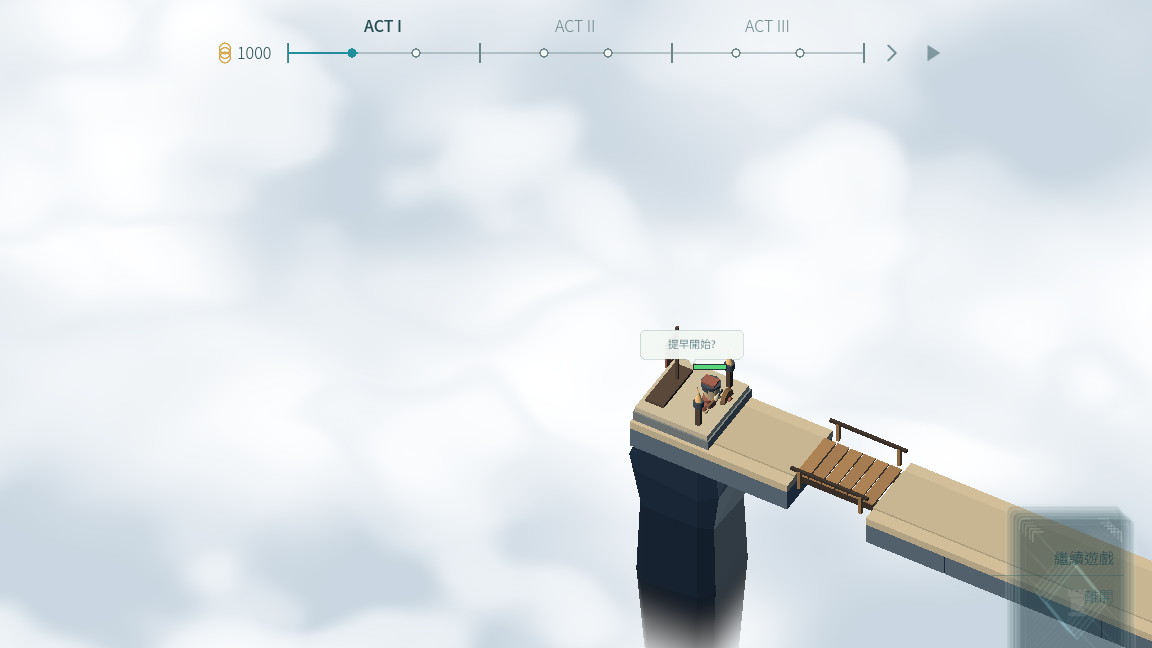
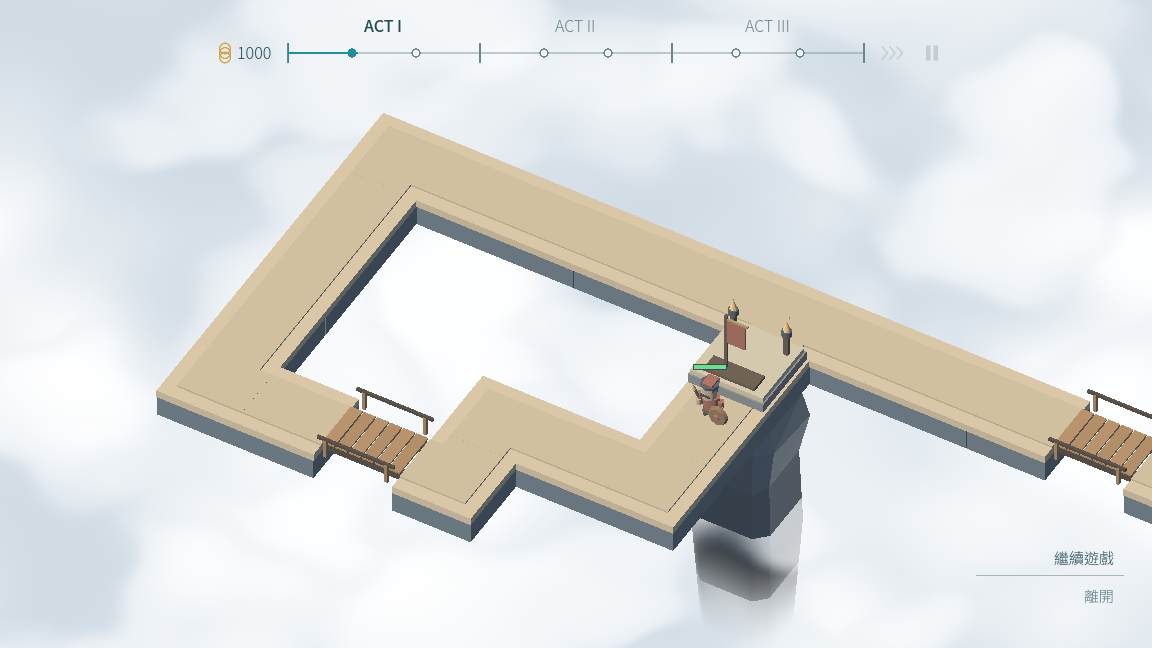
Refine pause controls and card transitions

diff --git a/scenes/UI_README.md b/scenes/UI_README.md
@@ -14,7 +14,7 @@
 | 波次圓點與 ACT 分隔線 | `levels/components/wave_timeline_marker.tscn` | `Dot/Fill`、`Dot/Outline`、`Divider` |
 | ACT 文字 | `levels/components/wave_timeline_act.tscn` | Label 的高度、對齊；目前 ACT 的字型與整體字級／顏色由時間線根節點指定 |
 | 放置旋轉提示 | `cards/components/rotation_key_hint.tscn` | `Key` 底框、`Key/Letter`、`ClockwiseArrow/Curve`、`Head`；根節點可調 0.5 秒停留、淡入時間與浮起距離 |
-| 手牌容器 | `cards/card_hand.tscn` | `Cards`；根節點 `vertical_offset` 調整手牌高度，扇形布局由 CardFanLayout 計算；`card_placement.tscn` 的 `paused_cards_opacity` 控制暫停時卡牌透明度 |
+| 手牌容器 | `cards/card_hand.tscn` | `Cards`；根節點 `vertical_offset` 調整手牌高度，扇形布局由 CardFanLayout 計算；暫停時手牌與商店隨 LevelHUD 的 `pause_seconds` 滑出，白色遮罩由 `levels/level_hud.tscn` 的 `PauseBlocker/WhiteVeil` 調整 |
 | 正面卡牌 | `cards/components/card_view.tscn` | 背景、外框、捷徑、塔圖示、標題、價格與地塊圖容器 |
 | 卡名、價格、牌背 | `cards/components/card_title.tscn`、`cards/components/card_price.tscn`、`cards/components/card_back.tscn` | 各子節點 |
 | 地塊圖的一格 | `cards/components/card_diagram_cell.tscn` | 根 ColorRect 是道路顏色；`Tower` 是塔格顏色，`Tower/Accent` 是塔色圓點 |

diff --git a/AGENTS.md b/AGENTS.md
@@ -29,7 +29,7 @@
 - 進入開場等待立即取消選牌與預覽、收起手牌、停止建造與商店交易；戰鬥保持鎖定，波次完成後恢復。關閉商店不能解除階段鎖定。
 - ACT 之間先選擴張方向與新增入口；選擇期間停止倒數並禁止放塔，完成後恢復下一波準備。
 - 地形至少一個入口、恰好一個終點；端點不可重疊、必須位於可連通道路。多入口依場景樹順序編號；舊地圖可明確使用關卡座標備援。
-- 1x／2x／4x 影響模擬時間。暫停立即鎖住遊戲輸入，再以實際時間減速至停止；暫停仍可平移縮放鏡頭、調整恢復後的速度。恢復須接續原進度及選牌狀態。
+- 1x／2x／4x 影響模擬時間。暫停立即鎖住遊戲輸入，再以實際時間減速至停止；暫停仍可平移縮放鏡頭，但頂部倍速與暫停按鈕立即停用且不回應 hover；透過右下繼續遊戲或 Esc 恢復。手牌與商店以實際 0.25 秒收至畫面下方，並淡入輕微白色遮罩；恢復時反向還原，接續原進度、選牌及商店展開狀態。
 - 關閉視窗／移除關卡時，敵人 `tree_exiting` 也可能觸發波次完成；關卡已排程刪除或 HUD 已離開場景樹時，不再推進下一波。HUD 的準備期更新與世界投影須忽略離場後的呼叫，避免在清理期間讀取空 viewport。
 
 ## 卡牌、商店與放置
